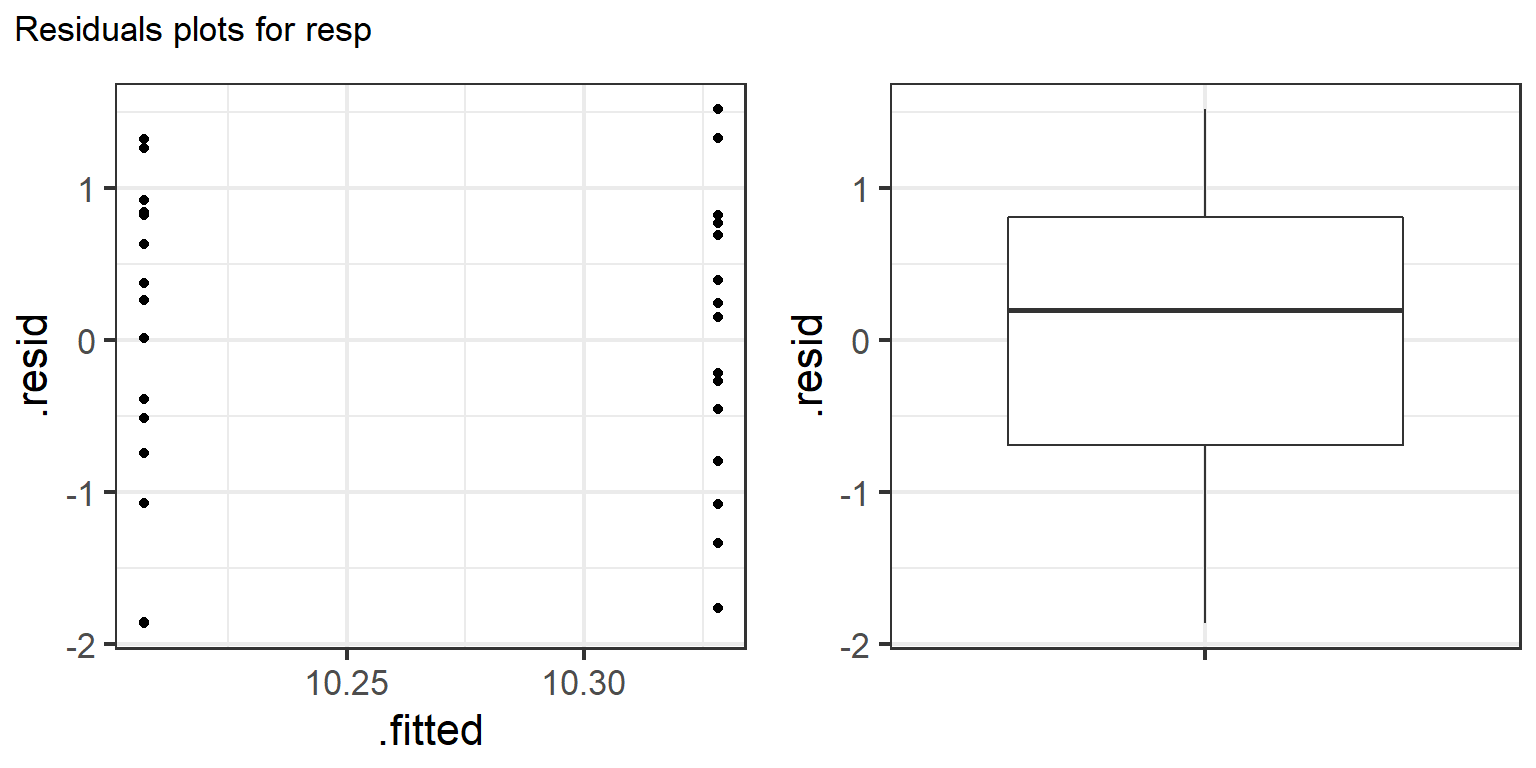
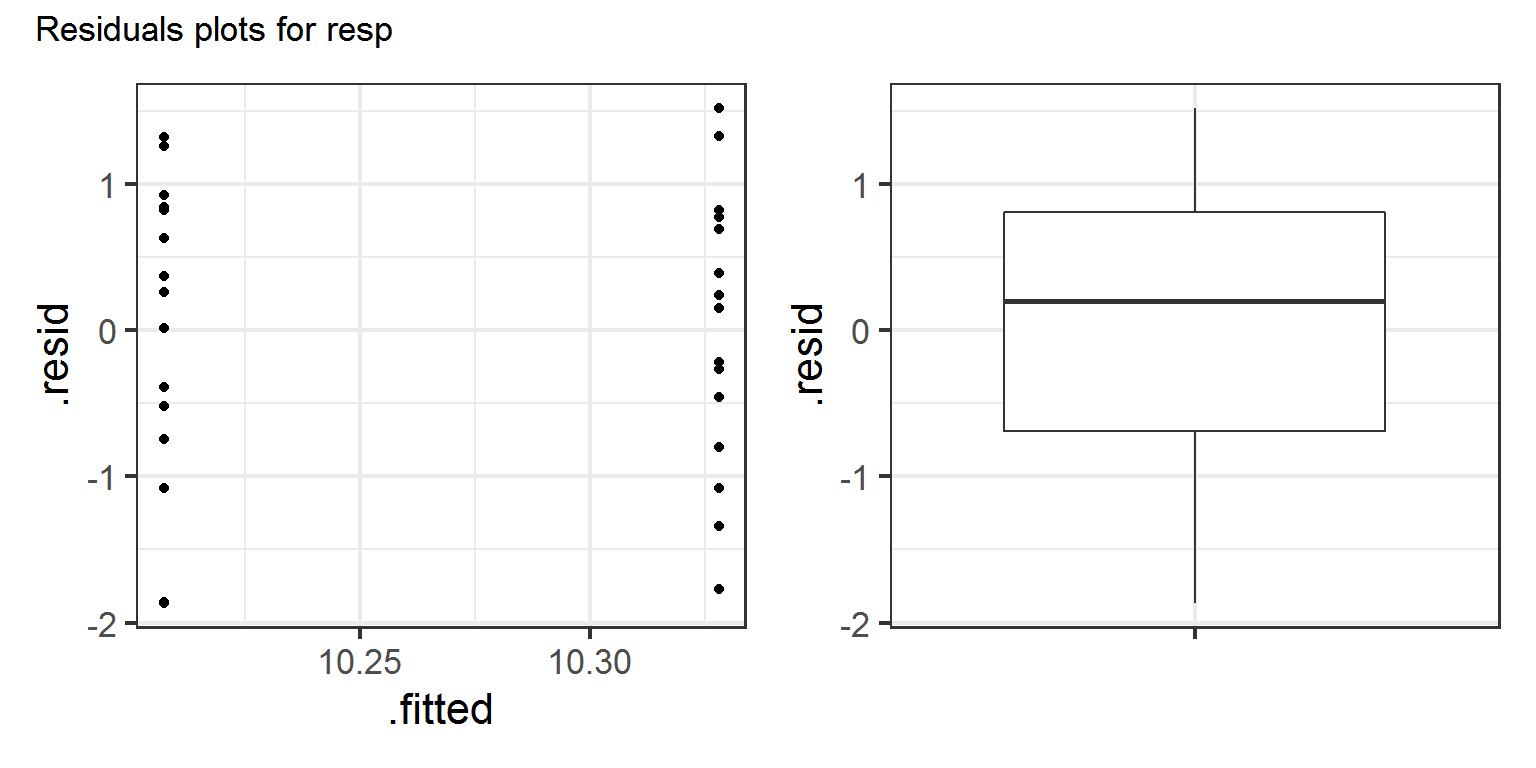
Update model fitting loops package versions

diff --git a/content/post/2019-07-22-automate-model-fitting-with-loops.html b/content/post/2019-07-22-automate-model-fitting-with-loops.html
@@ -20,8 +20,9 @@ description: "The task of fitting many similar models can be automated by loopin
 
 
 
+<p><em>This post was last updated on 2020-07-06.</em></p>
 <p>When we have many similar models to fit, automating at least some portions of the task can be a real time saver. In <a href="https://aosmith.rbind.io/2019/06/24/function-for-model-fitting/">my last post</a> I demonstrated how to make a function for model fitting. Once you have made such a function it’s possible to loop through variable names and fit a model for each one.</p>
-<p>In this post I am specifically focusing on having many response variables with the same explanatory variables, using <code>purrr::map()</code> and friends for the looping.</p>
+<p>In this post I am specifically focusing on having many response variables with the same explanatory variables, using <code>purrr::map()</code> and friends for the looping. However, this same approach can be used for models with varying explanatory variables, etc.</p>
 <div id="table-of-contents" class="section level2">
 <h2>Table of Contents</h2>
 <ul>
@@ -42,10 +43,10 @@ description: "The task of fitting many similar models can be automated by loopin
 <div id="r-packages" class="section level1">
 <h1>R packages</h1>
 <p>I’ll be using <strong>purrr</strong> for looping and will make residual plots with <strong>ggplot2</strong> and <strong>patchwork</strong>. I’ll use <strong>broom</strong> to extract tidy results from models.</p>
-<pre class="r"><code>library(purrr) # v. 0.3.2
-library(ggplot2) # v. 3.2.0
-library(patchwork) # v. 0.0.1, github only
-library(broom) # v. 0.5.2</code></pre>
+<pre class="r"><code>library(purrr) # v. 0.3.4
+library(ggplot2) # v. 3.3.2
+library(patchwork) # v. 1.0.0
+library(broom) # v. 0.5.6</code></pre>
 </div>
 <div id="the-dataset" class="section level1">
 <h1>The dataset</h1>
@@ -241,16 +242,16 @@ vars</code></pre>
 <pre class="r"><code>res_anova = map_dfr(models, tidy, conf.int = TRUE, .id = &quot;variable&quot;)
 res_anova</code></pre>
 <pre><code># # A tibble: 6 x 8
-#   variable term    estimate std.error statistic  p.value conf.low conf.high
-#   &lt;chr&gt;    &lt;chr&gt;      &lt;dbl&gt;     &lt;dbl&gt;     &lt;dbl&gt;    &lt;dbl&gt;    &lt;dbl&gt;     &lt;dbl&gt;
-# 1 resp     (Inter~   10.3       0.260    39.7   3.60e-26   9.80     10.9   
-# 2 resp     groupb    -0.121     0.368    -0.328 7.45e- 1  -0.874     0.632 
-# 3 slp      (Inter~   43.9       2.56     17.2   2.18e-16  38.7      49.2   
-# 4 slp      groupb     4.81      3.62      1.33  1.95e- 1  -2.61     12.2   
-# 5 log_grad (Inter~   -0.423     0.255    -1.66  1.09e- 1  -0.945     0.0997
-# 6 log_grad groupb     0.718     0.361     1.99  5.64e- 2  -0.0208    1.46</code></pre>
+#   variable term        estimate std.error statistic  p.value conf.low conf.high
+#   &lt;chr&gt;    &lt;chr&gt;          &lt;dbl&gt;     &lt;dbl&gt;     &lt;dbl&gt;    &lt;dbl&gt;    &lt;dbl&gt;     &lt;dbl&gt;
+# 1 resp     (Intercept)   10.3       0.260    39.7   3.60e-26   9.80     10.9   
+# 2 resp     groupb        -0.121     0.368    -0.328 7.45e- 1  -0.874     0.632 
+# 3 slp      (Intercept)   43.9       2.56     17.2   2.18e-16  38.7      49.2   
+# 4 slp      groupb         4.81      3.62      1.33  1.95e- 1  -2.61     12.2   
+# 5 log_grad (Intercept)   -0.423     0.255    -1.66  1.09e- 1  -0.945     0.0997
+# 6 log_grad groupb         0.718     0.361     1.99  5.64e- 2  -0.0208    1.46</code></pre>
 <p>The primary interest in this output would be in the <code>groupb</code> row for each variable. Since the output is a data frame (thanks <code>broom::tidy()</code>!) you can use standard data manipulation tools to pull out only rows and columns of interest.</p>
-<p>Other output, like, e.g., estimated marginal means for more complicated models, can be extracted and saved in a similar way.</p>
+<p>Other output, like, e.g., AIC or estimated marginal means for more complicated models, can be extracted and saved in a similar way. Check out <code>broom::glance()</code> for extracting AIC and other overall model results.</p>
 </div>
 <div id="alternative-approach-to-fitting-many-models" class="section level1">
 <h1>Alternative approach to fitting many models</h1>
@@ -260,10 +261,10 @@ res_anova</code></pre>
 <div id="just-the-code-please" class="section level1">
 <h1>Just the code, please</h1>
 <p>Here’s the code without all the discussion. Copy and paste the code below or you can download an R script of uncommented code <a href="/script/2019-07-22-automate-model-fitting-with-loops.R">from here</a>.</p>
-<pre class="r"><code>library(purrr) # v. 0.3.2
-library(ggplot2) # v. 3.2.0
-library(patchwork) # v. 0.0.1, github only
-library(broom) # v. 0.5.2
+<pre class="r"><code>library(purrr) # v. 0.3.4
+library(ggplot2) # v. 3.3.2
+library(patchwork) # v. 1.0.0
+library(broom) # v. 0.5.6
 
 dat = structure(list(group = structure(c(1L, 1L, 1L, 1L, 1L, 1L, 1L, 
 1L, 1L, 1L, 1L, 1L, 1L, 1L, 1L, 2L, 2L, 2L, 2L, 2L, 2L, 2L, 2L, 

diff --git a/content/post/2019-06-24-how-to-make-a-function-for-model-fitting.html b/content/post/2019-06-24-how-to-make-a-function-for-model-fitting.html
@@ -186,7 +186,7 @@ mpgfit = lm_modfit(mpg)</code></pre>
 </div>
 <div id="next-step-looping" class="section level1">
 <h1>Next step: looping</h1>
-<p>This post focused on using <code>paste()</code> and <code>as.formula()</code> for building model formula and then making user-defined functions for interactive use. When working with many models we’d likely want to automate the process more by using some sort of looping. I’ll write a follow-up post on looping through variables and fitting models with the <code>map</code> family of functions from package <strong>purrr</strong>.</p>
+<p>This post focused on using <code>paste()</code> and <code>as.formula()</code> for building model formula and then making user-defined functions for interactive use. When working with many models we’d likely want to automate the process more by using some sort of looping. I wrote a follow-up post on looping through variables and fitting models with the <code>map</code> family of functions from package <strong>purrr</strong>, which you can see <a href="https://aosmith.rbind.io/2019/07/22/automate-model-fitting-with-loops/">here</a>.</p>
 </div>
 <div id="just-the-code-please" class="section level1">
 <h1>Just the code, please</h1>
